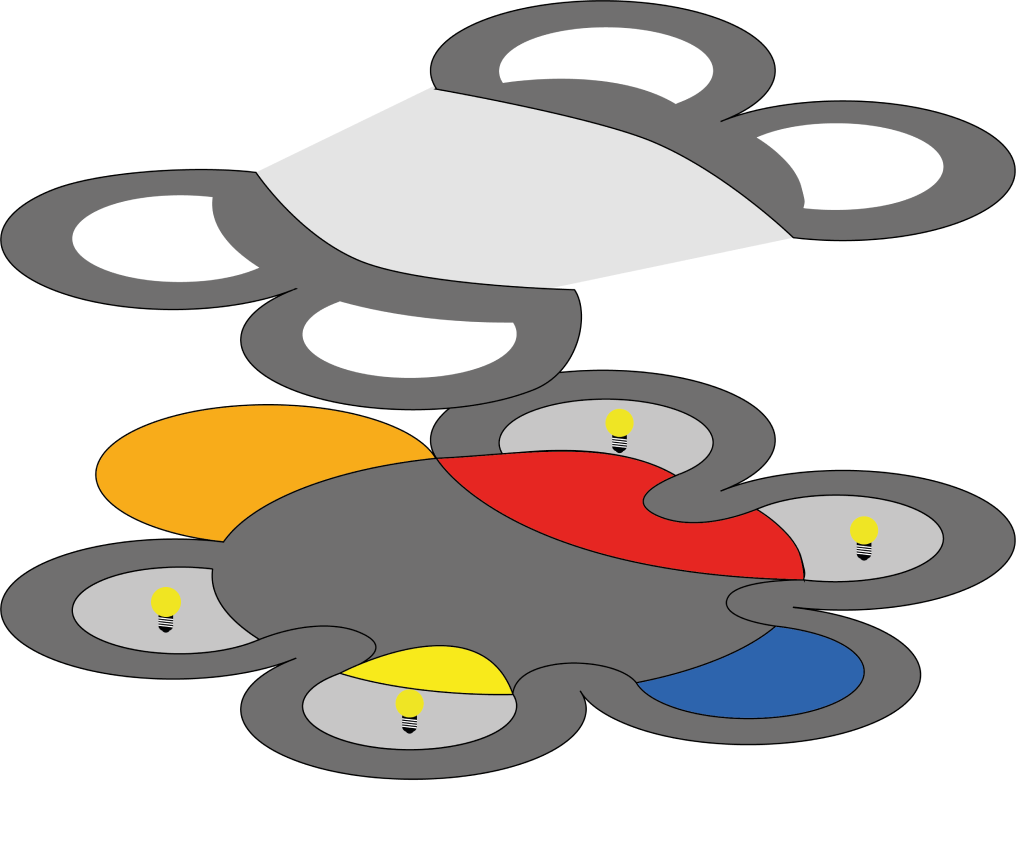
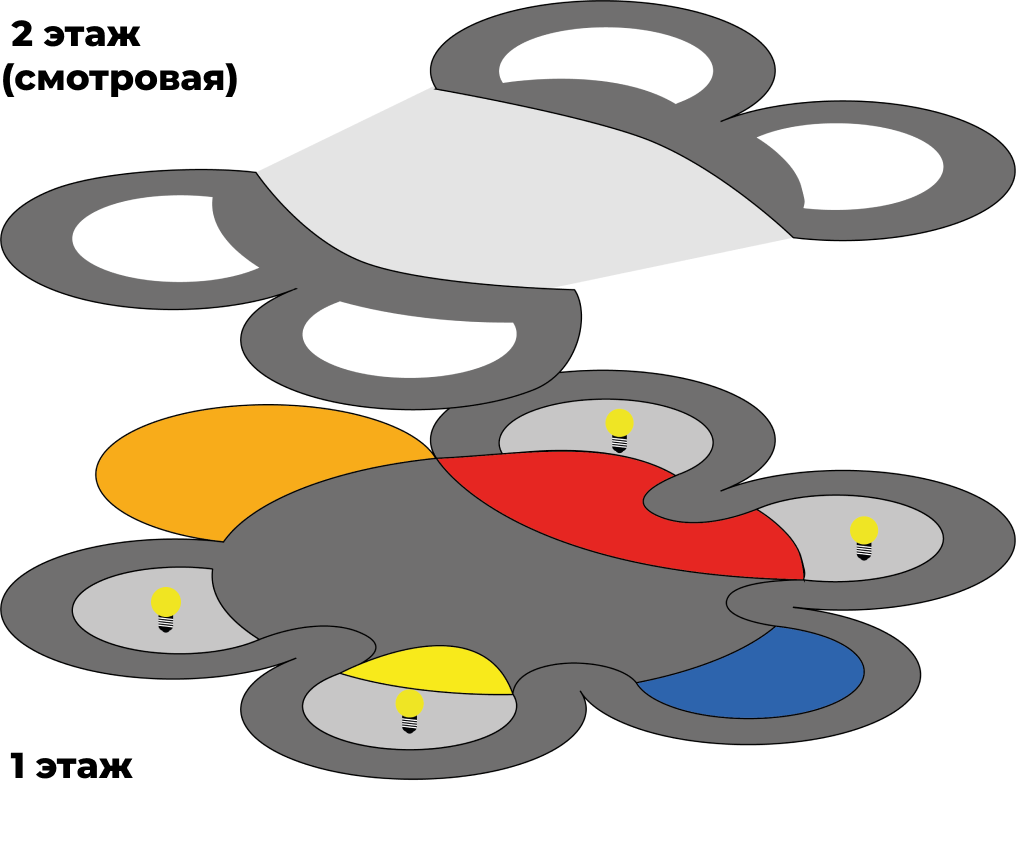
.)

Changed region(s): [[0.0, 0.0, 0.2441, 0.1226], [0.0, 0.8892, 0.1526, 0.9198]]

diff --git a/index3.html b/index3.html
@@ -25,7 +25,63 @@
         </li>
       </ul>
     </nav>
-    <h1>Планировка</h1>
-    <img src="img\Group.png" alt="">
+    <div class="box">
+      <h1>Планировка</h1>
+      <img src="img\Group.png" alt="">
+      <div class="grid-box">
+        <div class="box-one">
+          <div class="blue">
+            <p>— Вход</p>
+
+          </div>
+          <div class="red">
+               <p>— Бар</p>
+          </div>
+          <div class="yellow">
+           <p> — Туалеты</p>
+          </div>
+        </div>
+        <div class="box-two">
+          <div class="orange">
+            <p>— Сцена</p>
+          </div>
+          <svg class="lamp" width="56" height="87" viewBox="0 0 56 87" fill="none" xmlns="http://www.w3.org/2000/svg">
+          <path d="M42.3871 62.7762L13.4529 59.5569V56.707L42.3871 59.9791V62.7762Z" fill="white"/>
+          <path d="M42.3871 67.578L13.4529 64.3587V61.4824L42.3871 64.7809V67.578Z" fill="white"/>
+          <path d="M42.3871 72.3807L13.4529 69.1614V66.2852L42.3871 69.5836V72.3807Z" fill="white"/>
+          <path d="M41.7999 77.1062L13.4529 73.9397V71.0898L42.3337 74.4411" fill="white"/>
+          <path d="M42.2807 74.7285L42.0138 76.0215C42.1206 75.5993 42.2273 75.1771 42.2807 74.7285Z" fill="#020203"/>
+          <path d="M13.4791 73.9629C13.746 78.2641 16.7622 81.8792 20.7927 83.0666C22.3141 85.4415 25.01 86.9984 28.0529 86.9984C31.1492 86.9984 33.8718 85.3887 35.3933 82.9611C38.2493 82.0111 40.5448 79.8473 41.6659 77.103L13.4791 73.9629Z" fill="#020203"/>
+          <path d="M13.4529 71.0884L42.3337 74.4396C42.3604 74.0702 42.3871 73.7272 42.3871 73.3577V72.3814L13.4529 69.1621V71.0884Z" fill="#020203"/>
+          <path d="M13.4529 66.2857L42.3871 69.5841V67.5787L13.4529 64.3594V66.2857Z" fill="#020203"/>
+          <path d="M32.1373 42.9316H23.7026C18.0706 42.9316 13.4529 47.4967 13.4529 53.0645V56.6796L42.3871 59.9516V53.0381C42.3871 47.4967 37.7694 42.9316 32.1373 42.9316Z" fill="#020203"/>
+          <path d="M13.4529 61.481L42.3871 64.7794V62.774L13.4529 59.5547V61.481Z" fill="#020203"/>
+          <path d="M28 55.3612C43.464 55.3612 56 42.9682 56 27.6806C56 12.393 43.464 0 28 0C12.536 0 0 12.393 0 27.6806C0 42.9682 12.536 55.3612 28 55.3612Z" fill="#F0E522"/>
+          <p class="inst" >— Инсталляции</p>
+          </svg>
+
+        </div>
+        <div class="box-three">
+          <p class="info" >
+                            Площадка фестиваля
+                            это территория
+                            в&nbsp;зелёной зоне.
+                            Она огорожена забором,
+                            а&nbsp;внутри находятся бар, фонтан,
+                            сцена
+                            и&nbsp;смотровая площадка,
+                            с&nbsp;которой можно лицезреть световые инсталляции
+
+          </p>
+        </div>
+      </div>
+    </div>
+    <footer>
+        <h4 class="right">Портфолио</h4>
+        <img class="vk" src="img/vk.png" alt="">
+        <img class="hse" src="img/hse.png" alt="">
+        <h4>Партнеры</h4>
+        <img class="logos" src="img/logos.png" alt="">
+    </footer>
   </body>
 </html>

diff --git a/css/index3.css b/css/index3.css
@@ -67,13 +67,17 @@ li {
    -webkit-text-fill-color: transparent;
    color: #0B2349;
 }
+.box {
+  position: relative;
+  padding: 0 212px 0 212px;
+}
 h1 {
   width: 556px;
   height: 110px;
   font-family: Ubuntu;
   font-style: normal;
   font-weight: normal;
-  font-size: 96px;
+  font-size: 64px;
   text-align: center;
   color: #000000;
   margin: auto;
@@ -84,4 +88,109 @@ img {
   left: 50%;
   transform: translate(-50%, -50%);
   margin-top: 528px;
+}
+.grid-box {
+  display: grid;
+  grid-template-columns: 258px 294px 451px;
+  transform: translateY(-350px);
+}
+.blue {
+  width: 80px;
+  height: 80px;
+  border-radius: 81px;
+  background-color: #2D64AD;
+  margin-bottom: 49px;
+}
+.red {
+  width: 80px;
+  height: 80px;
+  border-radius: 81px;
+  background-color: #E62622;
+  margin-bottom: 49px;
+}
+.yellow {
+  width: 80px;
+  height: 80px;
+  border-radius: 81px;
+  background-color: #F8EA1B;
+  margin-bottom: 49px;
+}
+.orange {
+  width: 80px;
+  height: 80px;
+  border-radius: 81px;
+  background-color: #F8AC1A;
+}
+.info {
+  font-family: Montserrat;
+  font-style: normal;
+  font-weight: normal;
+  font-size: 24px;
+  line-height: 29px;
+  color: #000000;
+  text-align: left;
+  transform: translate3d(0px, 0px, 0);
+}
+p {
+  position: absolute;
+  font-family: Montserrat;
+  font-style: normal;
+  font-weight: normal;
+  font-size: 24px;
+  line-height: 29px;
+  text-align: center;
+  transform: translate3d(90px, 20px, 0);
+}
+.lamp {
+  transform: translate3d(12px, 49px, 0);
+}
+.box-one {
+  height: 361px;
+  position: relative;
+}
+.box-two {
+  height: 361px;
+  position: relative;
+}
+.box-three {
+  height: 361px;
+  position: relative;
+  padding: 0 0 0 60px;
+}
+.inst {
+  transform: translate3d(90px, -13px, 0);
+}
+footer {
+  position: relative;
+  width: 100%;
+  height: 209px;
+  background: linear-gradient(180deg, #4E79E3 0%, #994EE3 100%);
+  padding: 50px 445px 0 445px;
+}
+h4 {
+  display: inline-block;
+  font-family: Montserrat;
+  font-style: normal;
+  font-weight: normal;
+  font-size: 24px;
+  line-height: 29px;
+  color: #FFFFFF;
+}
+.right {
+  margin-right: 272px;
+}
+.vk {
+  position: absolute;
+  transform: translate3d(-420px, 0, 0);
+  display: inline-block;
+}
+.hse {
+  position: absolute;
+  transform: translate3d(-340px, 0, 0);
+  display: inline-block;
+}
+.logos {
+  display: inline-block;
+  position: absolute;
+  transform: translate3d(-137px, 60px, 0);
 }

diff --git a/css/index.css b/css/index.css
@@ -98,18 +98,18 @@ h1 {
   font-family: 'Old Standard TT', serif;
 }
 .top {
-  transform: translateY(50px);
+  transform: translateY(0px);
   font-weight: 500;
   font-size: 64px;
   line-height: 103px;
 }
 .bottom {
-  transform: translateY(50px);
+  transform: translateY(0px);
   font-size: 29px;
   line-height: 46px;
 }
 .btn {
-  margin-top: 180px;
+  margin-top: 130px;
   position: absolute;
   font-family: Ubuntu;
   font-style: normal;
@@ -136,7 +136,7 @@ h1 {
   font-size: 43px;
   line-height: 52px;
   color: #FFF;
-  margin-top: 270px;
+  margin-top: 220px;
 }
 .grid-box {
   display: grid;
@@ -222,4 +222,19 @@ h4 {
 }
 .right {
   margin-right: 272px;
+}
+.vk {
+  position: absolute;
+  transform: translate3d(-420px, 49px, 0);
+  display: inline-block;
+}
+.hse {
+  position: absolute;
+  transform: translate3d(-340px, 49px, 0);
+  display: inline-block;
+}
+.logos {
+  display: inline-block;
+  position: absolute;
+  transform: translate3d(-137px, 60px, 0);
 }

diff --git a/index.html b/index.html
@@ -61,9 +61,10 @@
     </div>
     <footer>
         <h4 class="right">Портфолио</h4>
-
+        <img class="vk" src="img/vk.png" alt="">
+        <img class="hse" src="img/hse.png" alt="">
         <h4>Партнеры</h4>
-
+        <img class="logos" src="img/logos.png" alt="">
     </footer>
   </body>
 </html>
